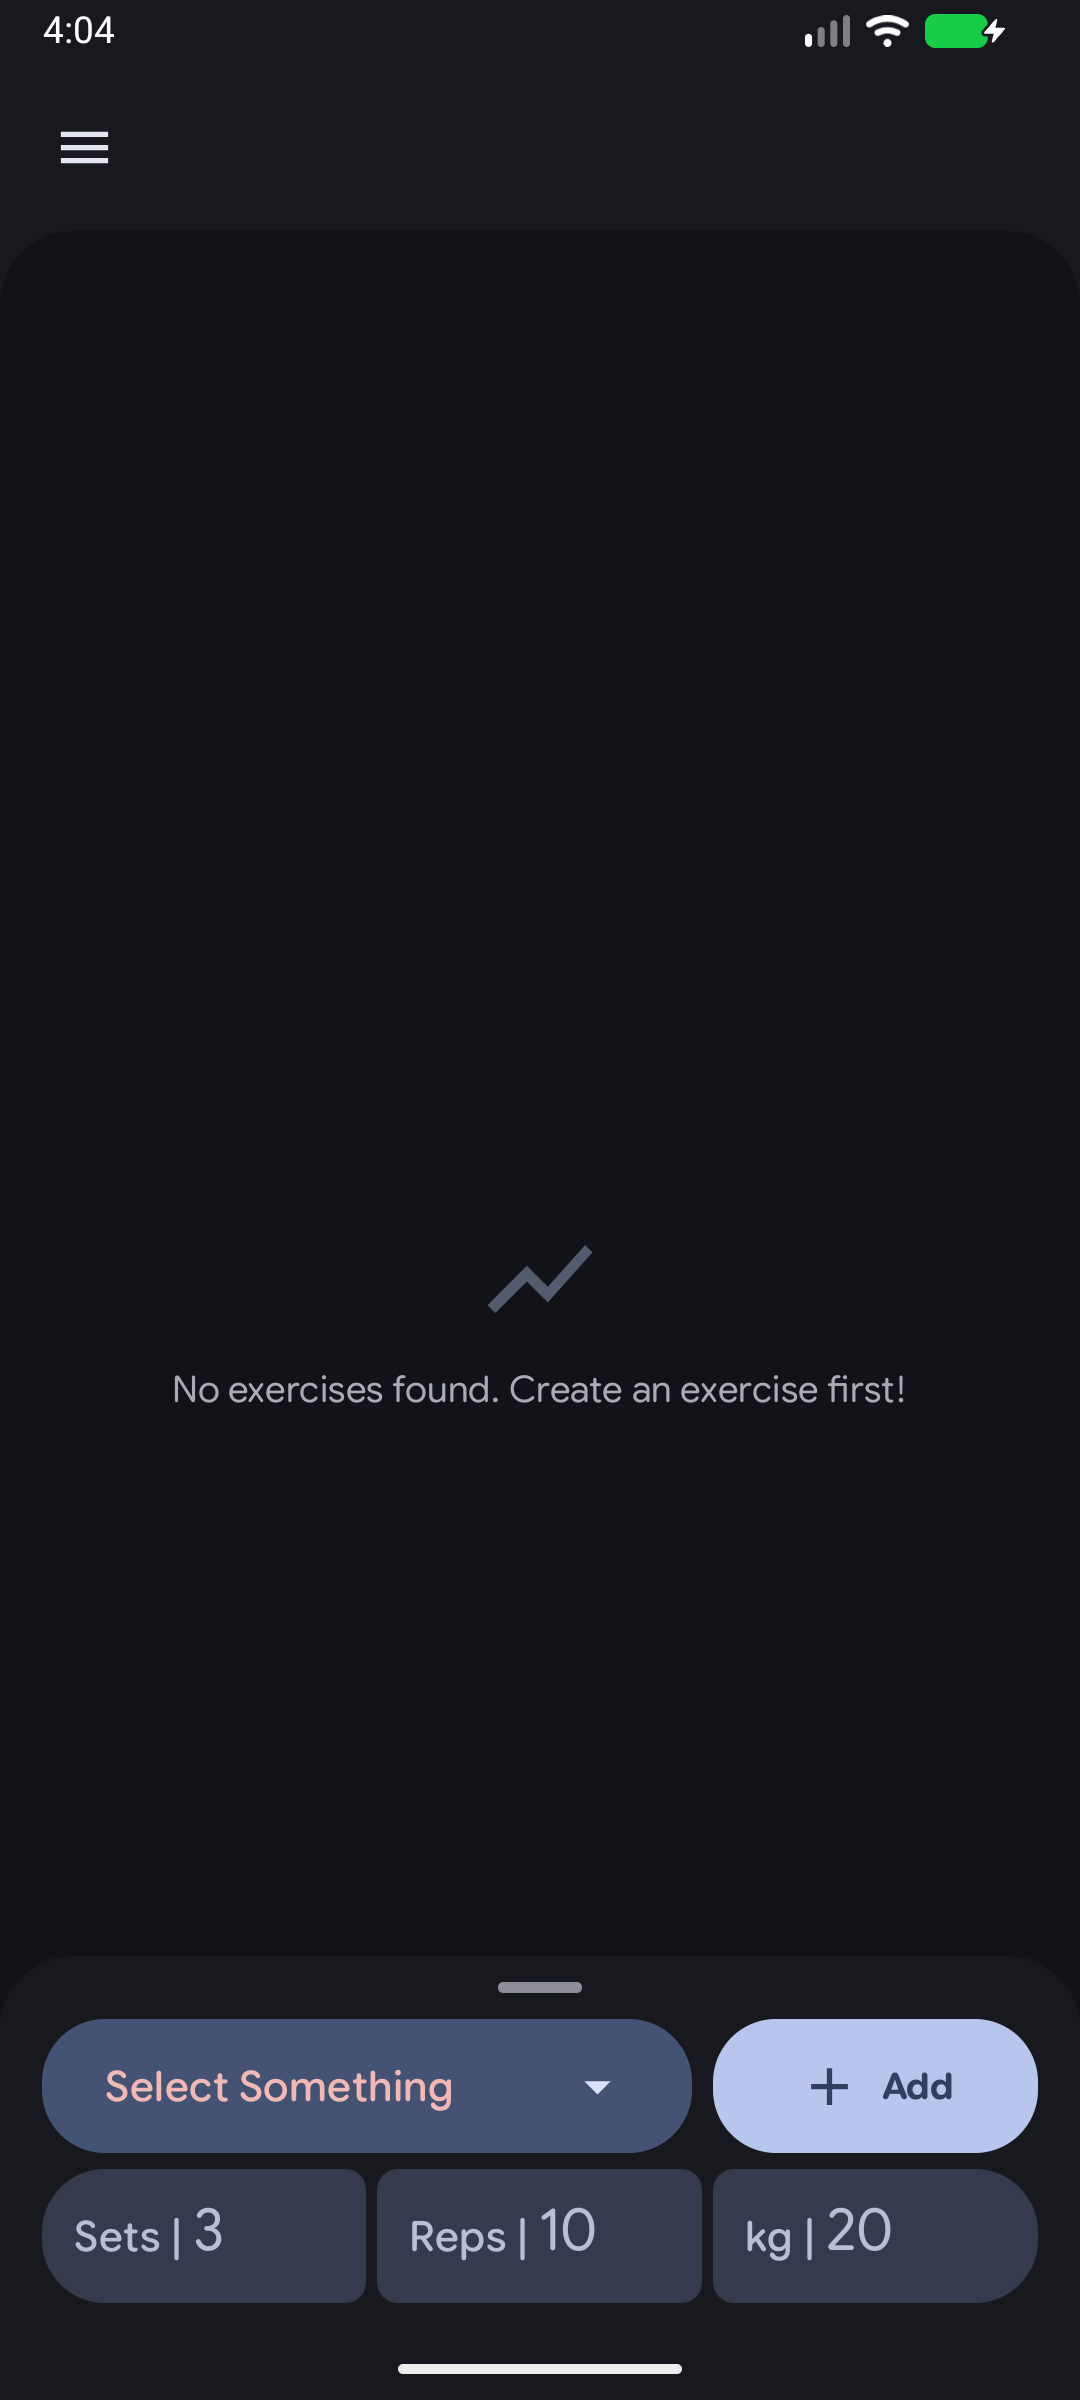
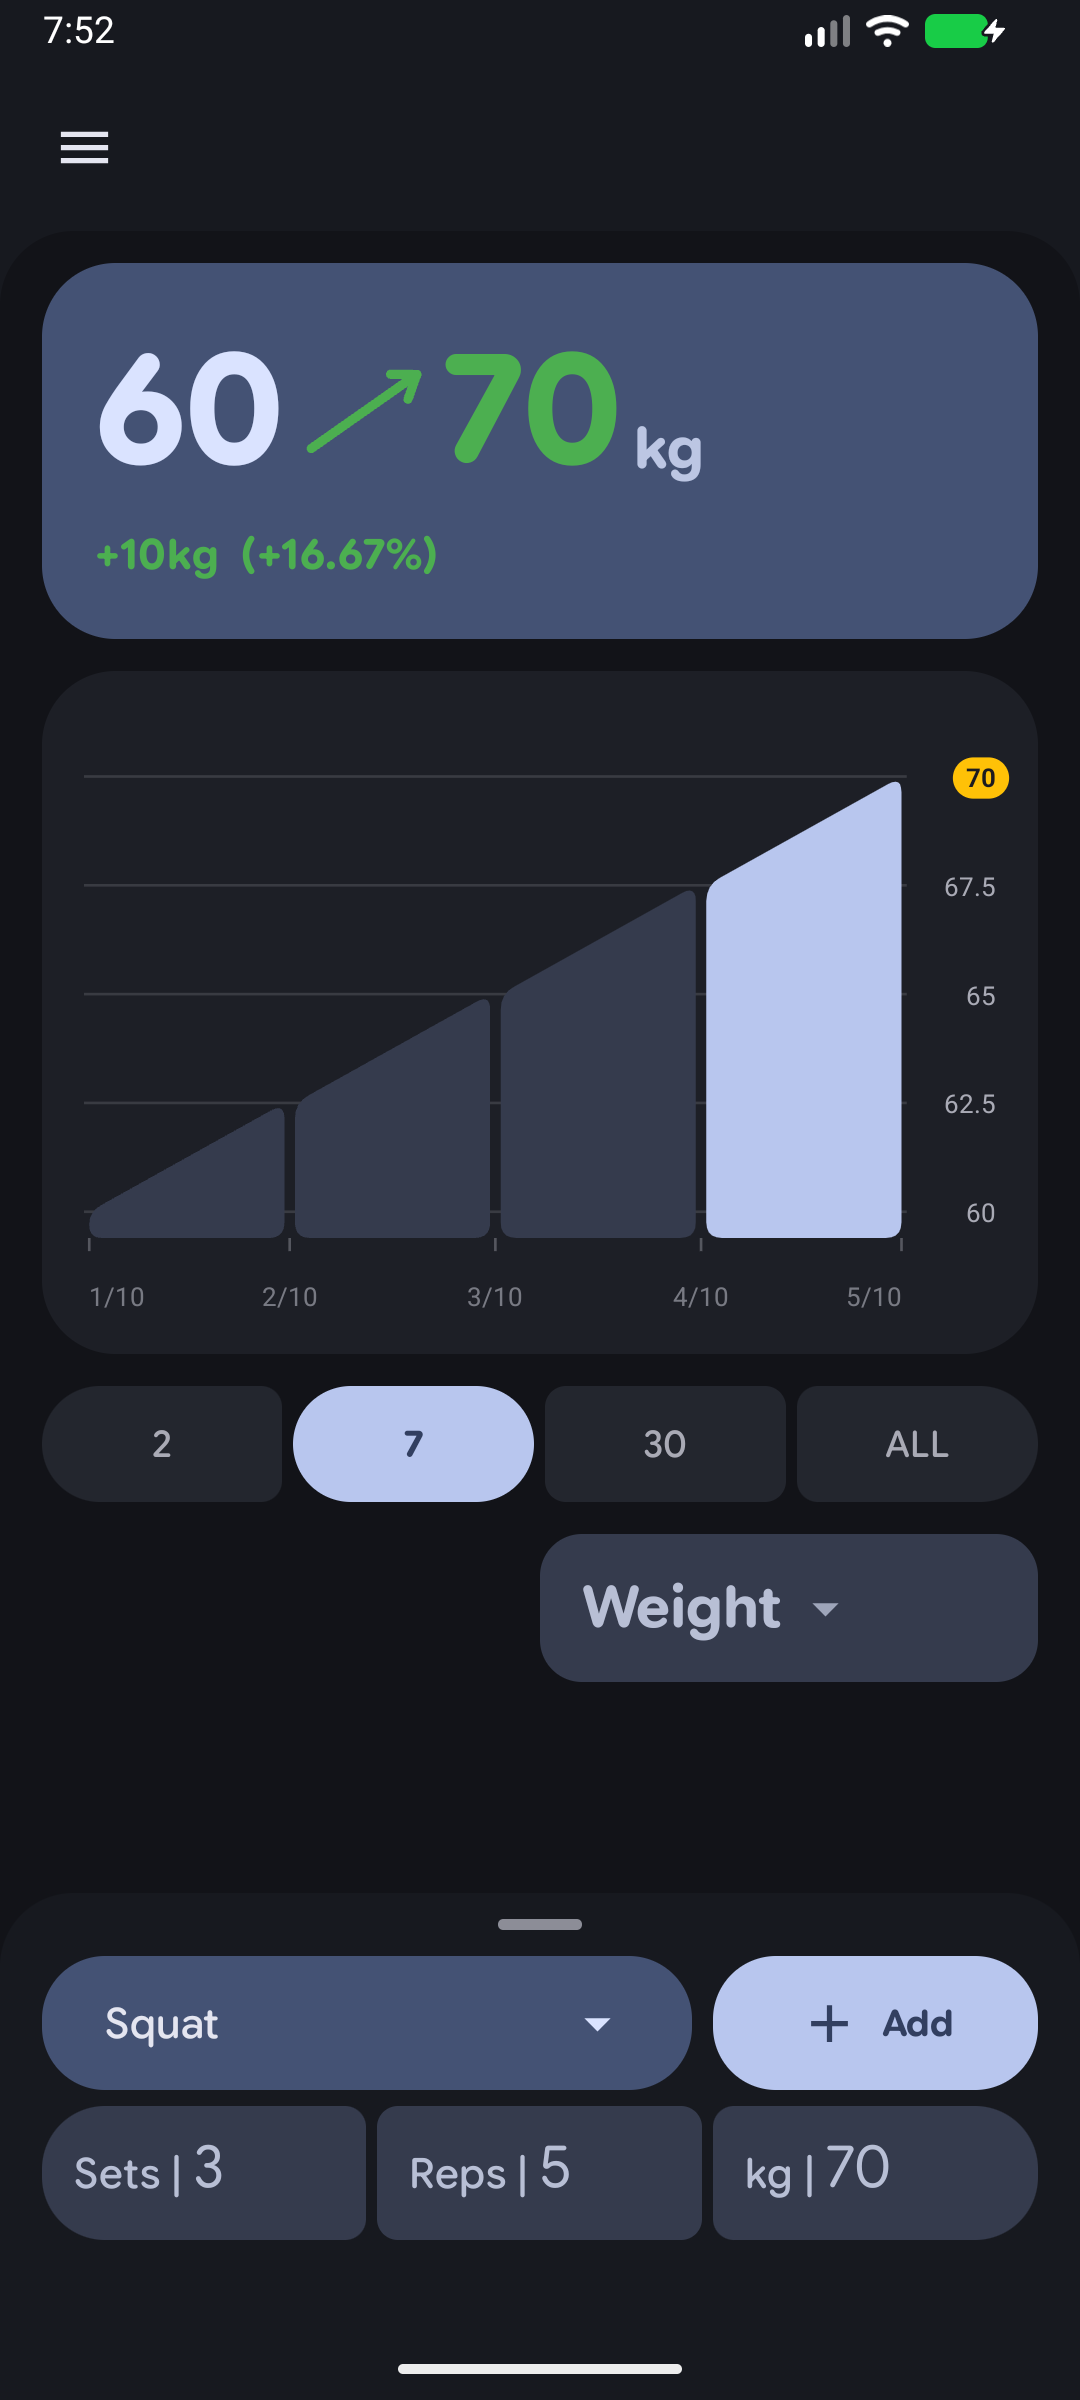
created a screenshots script to automatically create up to date screenshots for new releases.

diff --git a/app/src/main/java/com/nnoidea/fitnez2/data/DatabaseSeeder.kt b/app/src/main/java/com/nnoidea/fitnez2/data/DatabaseSeeder.kt
@@ -8,6 +8,7 @@ import com.nnoidea.fitnez2.data.entities.Record
 import kotlinx.coroutines.CoroutineScope
 import kotlinx.coroutines.Dispatchers
 import kotlinx.coroutines.launch
+import java.util.Calendar
 
 class DatabaseSeeder(
     private val applicationScope: CoroutineScope,
@@ -29,8 +30,9 @@ class DatabaseSeeder(
     private suspend fun populateDatabase(database: AppDatabase) {
         val exerciseDao = database.exerciseDao()
         val recordDao = database.recordDao()
+        val now = System.currentTimeMillis()
 
-        val initialExercises = listOf(
+        val starterLifts = listOf(
             "Squat",
             "Bench Press",
             "Deadlift",
@@ -39,40 +41,40 @@ class DatabaseSeeder(
             "Pull Up",
             "Dips"
         )
-
-        initialExercises.forEach { name ->
+        starterLifts.forEach { name ->
             exerciseDao.insertExercise(Exercise(name = name))
         }
+        val idsByName = exerciseDao.getAllExercises().associateBy({ it.name }, { it.id })
 
-        val exercises = exerciseDao.getAllExercises()
-        if (exercises.isEmpty()) return
-
-        val now = System.currentTimeMillis()
-        val oneHour = 3600000L
-        val oneDay = 86400000L
-        val oneWeek = 604800000L
-
-        val timePoints = listOf(
-            now - oneHour,
-            now - oneDay,
-            now - (2 * oneDay),
-            now - oneWeek
-        )
-
-        timePoints.forEach { timestamp ->
-            repeat(5) { i ->
-                val exercise = exercises[i % exercises.size]
-                recordDao.insertRecord(
-                    Record(
-                        exerciseId = exercise.id,
-                        date = timestamp,
-                        weight = 20.0 + (i * 2.5),
-                        sets = 1,
-                        reps = 5 + i
-                    )
+        suspend fun log(exercise: String, daysAgo: Int, sets: Int, reps: Int, weight: Double, order: Int = 0) {
+            recordDao.insertRecord(
+                Record(
+                    exerciseId = idsByName.getValue(exercise),
+                    sets = sets,
+                    reps = reps,
+                    weight = weight,
+                    date = trainingDayTimestamp(daysAgo, now),
+                    orderNumber = order
                 )
-            }
+            )
         }
+
+        // A week of Squat, heavier back-to-back so the graph climbs.
+        log("Squat", daysAgo = 4, sets = 3, reps = 5, weight = 60.0)
+        log("Squat", daysAgo = 3, sets = 3, reps = 5, weight = 62.5)
+        log("Squat", daysAgo = 2, sets = 3, reps = 5, weight = 65.0)
+        log("Squat", daysAgo = 1, sets = 3, reps = 5, weight = 67.5)
+        // Today's Squat shares its timestamp with other lifts; pin it as the
+        // latest record so the graph opens on the main lift.
+        log("Squat", daysAgo = 0, sets = 3, reps = 5, weight = 70.0, order = 1)
+        // Bench climbs back-to-back too.
+        log("Bench Press", daysAgo = 2, sets = 3, reps = 8, weight = 40.0)
+        log("Bench Press", daysAgo = 0, sets = 3, reps = 8, weight = 42.5)
+        // A few other lifts so the timeline looks lived-in. Ten records total,
+        // all within the last week, so they are easy to wipe.
+        log("Deadlift", daysAgo = 1, sets = 3, reps = 5, weight = 100.0)
+        log("Overhead Press", daysAgo = 0, sets = 3, reps = 8, weight = 30.0)
+        log("Barbell Row", daysAgo = 3, sets = 3, reps = 8, weight = 50.0)
 
         com.nnoidea.fitnez2.ui.common.GlobalUiState.emitToAll(
             com.nnoidea.fitnez2.ui.common.UiSignal.DatabaseSeeded
@@ -80,4 +82,16 @@ class DatabaseSeeder(
 
         Log.d("DatabaseSeeder", "Seeding complete.")
     }
+}
+
+/** Stable timestamp for a training day N days ago: midday, safely clear of the night-mode rollover hour. */
+fun trainingDayTimestamp(daysAgo: Int, nowMillis: Long): Long {
+    val calendar = Calendar.getInstance()
+    calendar.timeInMillis = nowMillis
+    calendar.add(Calendar.DAY_OF_YEAR, -daysAgo)
+    calendar.set(Calendar.HOUR_OF_DAY, 12)
+    calendar.set(Calendar.MINUTE, 0)
+    calendar.set(Calendar.SECOND, 0)
+    calendar.set(Calendar.MILLISECOND, 0)
+    return calendar.timeInMillis
 }

diff --git a/app/src/test/java/com/nnoidea/fitnez2/data/DatabaseSeederTest.kt b/app/src/test/java/com/nnoidea/fitnez2/data/DatabaseSeederTest.kt
@@ -1,0 +1,70 @@
+package com.nnoidea.fitnez2.data
+
+import android.content.Context
+import androidx.room.Room
+import androidx.test.core.app.ApplicationProvider
+import com.nnoidea.fitnez2.core.TimeUtils
+import kotlinx.coroutines.runBlocking
+import org.junit.Assert.assertEquals
+import org.junit.Assert.assertTrue
+import org.junit.Test
+import org.junit.runner.RunWith
+import org.robolectric.RobolectricTestRunner
+import org.robolectric.annotation.Config
+
+@RunWith(RobolectricTestRunner::class)
+@Config(sdk = [34])
+class DatabaseSeederTest {
+
+    @Test
+    fun firstStartSeed_staysSmallRecentAndProgressing() = runBlocking {
+        val context = ApplicationProvider.getApplicationContext<Context>()
+        var dbRef: AppDatabase? = null
+        val db = Room.inMemoryDatabaseBuilder(context, AppDatabase::class.java)
+            .allowMainThreadQueries()
+            .addCallback(DatabaseSeeder(this, { dbRef!! }))
+            .build()
+        dbRef = db
+        // First access triggers onCreate; the seeder populates asynchronously.
+        db.exerciseDao().getAllExercises()
+        val deadline = System.currentTimeMillis() + 10000
+        var exercises = db.exerciseDao().getAllExercises()
+        while (exercises.size < 7 && System.currentTimeMillis() < deadline) {
+            kotlinx.coroutines.delay(200)
+            exercises = db.exerciseDao().getAllExercises()
+        }
+        val names = exercises.map { it.name }
+        assertTrue(names.contains("Squat"))
+        assertTrue(names.contains("Bench Press"))
+
+        val squatRecords = db.recordDao()
+            .getRecordsByExerciseId(exercises.first { it.name == "Squat" }.id, limit = 100)
+            .sortedBy { it.date }
+        val benchWeights = db.recordDao()
+            .getRecordsByExerciseId(exercises.first { it.name == "Bench Press" }.id, limit = 100)
+            .sortedBy { it.date }
+            .map { it.weight }
+        val total = db.recordDao().getTotalRecordCount()
+        val latest = db.recordDao().getLatestRecord()
+        db.close()
+
+        // A handful of back-to-back Squat sessions, strictly increasing.
+        assertEquals(5, squatRecords.size)
+        assertEquals(5, squatRecords.map { TimeUtils.getWorkoutLocalDate(it.date, 0) }.toSet().size)
+        val squatWeights = squatRecords.map { it.weight }
+        assertEquals(squatWeights.sorted(), squatWeights)
+        assertTrue(squatWeights.last() > squatWeights.first())
+
+        // A second lift also climbs back-to-back.
+        assertTrue(benchWeights.size >= 2)
+        assertEquals(benchWeights.sorted(), benchWeights)
+        assertTrue(benchWeights.last() > benchWeights.first())
+
+        // Small and recent: easy to wipe, nothing older than a week.
+        assertEquals(10, total)
+        assertTrue(squatRecords.all { it.date > System.currentTimeMillis() - 7 * 86400000L })
+
+        // Today's Squat is the latest record so the graph opens on it.
+        assertEquals("Squat", latest?.exerciseName)
+    }
+}

diff --git a/app/src/main/java/com/nnoidea/fitnez2/ui/screens/graph/GraphScreen.kt b/app/src/main/java/com/nnoidea/fitnez2/ui/screens/graph/GraphScreen.kt
@@ -136,7 +136,7 @@ fun GraphScreen(
 
     val exercises by exerciseService.getAllExercisesFlow().collectAsState(initial = emptyList())
     val weightUnit by settingsService.weightUnitFlow.collectAsState(initial = "kg")
-    val savedRangeStr by settingsService.graphRangeFlow.collectAsState(initial = "ALL")
+    val savedRangeStr by settingsService.graphRangeFlow.collectAsState(initial = "SEVEN")
     val savedMetricStr by settingsService.graphMetricFlow.collectAsState(initial = "MAX_WEIGHT")
 
     var selectedRangeOverride by remember { mutableStateOf<SessionRange?>(null) }

diff --git a/app/src/main/java/com/nnoidea/fitnez2/data/SettingsRepository.kt b/app/src/main/java/com/nnoidea/fitnez2/data/SettingsRepository.kt
@@ -89,7 +89,7 @@ class SettingsRepository(private val context: Context) {
     private val GRAPH_RANGE_KEY = stringPreferencesKey("graph_range")
 
     val graphRangeFlow: Flow<String> = context.dataStore.data
-        .map { preferences -> preferences[GRAPH_RANGE_KEY] ?: "ALL" }
+        .map { preferences -> preferences[GRAPH_RANGE_KEY] ?: "SEVEN" }
 
     suspend fun setGraphRange(range: String) {
         context.dataStore.edit { it[GRAPH_RANGE_KEY] = range }

diff --git a/app/src/test/java/com/nnoidea/fitnez2/service/SettingsServiceTest.kt b/app/src/test/java/com/nnoidea/fitnez2/service/SettingsServiceTest.kt
@@ -68,7 +68,7 @@ class SettingsServiceTest {
 
     @Test
     fun setAndGetGraphRangeAndMetric() = runBlocking {
-        assertEquals("ALL", settingsService.graphRangeFlow.first())
+        assertEquals("SEVEN", settingsService.graphRangeFlow.first())
         assertEquals("MAX_WEIGHT", settingsService.graphMetricFlow.first())
 
         settingsService.setGraphRange("THIRTY")

diff --git a/README.md b/README.md
@@ -1,8 +1,8 @@
 # Fitnez2
 
-## Screenshots
+A fitness tracking app for your weight exercises, specially made with Material 3 Expressive + own custom expressive components that go even further than the Material 3 Expressive library.
 
-Run `make screenshots` with one running Android 12+ emulator to rebuild and capture these screens at a standard 1080 × 2400 portrait resolution. Set `ANDROID_SERIAL` if more than one emulator is attached. The command uses a temporary emulator user so existing app data stays untouched; screenshots use Android dark mode and Material You dynamic colors.
+## Screenshots
 
 <table>
   <tr>
@@ -14,8 +14,6 @@ Run `make screenshots` with one running Android 12+ emulator to rebuild and capt
     <td align="center"><img src="screenshots/settings.png" alt="Fitnez2 settings screen" width="100%"></td>
   </tr>
 </table>
-
-A fitness tracking app for your weight exercises, specially made with Material 3 Expressive + own custom expressive components that go even further than the Material 3 Expressive library.
 
 ## Features
 
